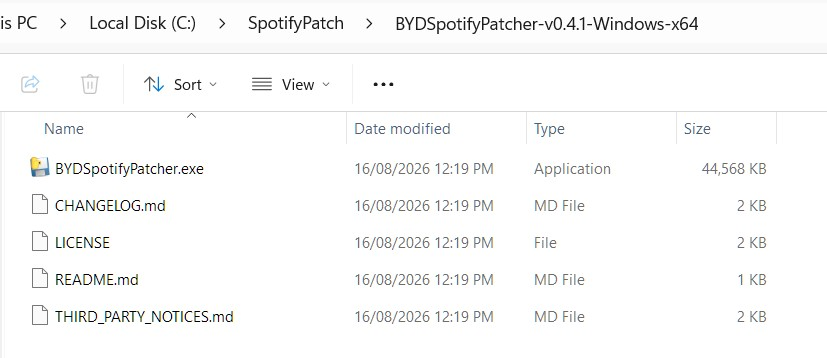
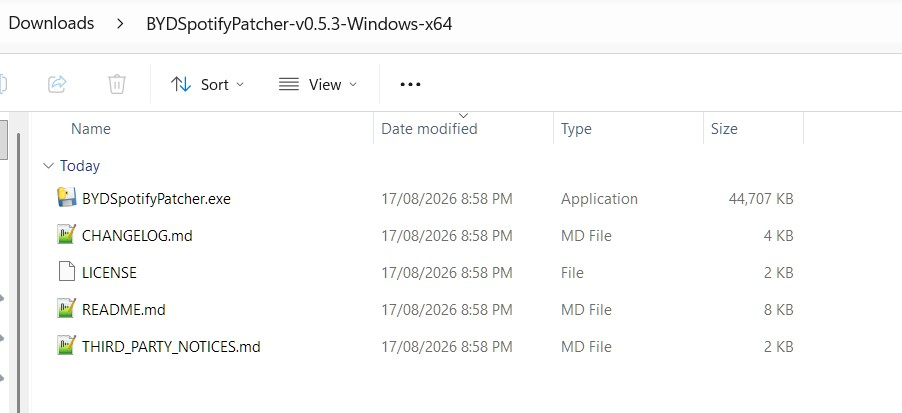
Update README and usage screenshots

diff --git a/README.md b/README.md
@@ -1,184 +1,110 @@
 # BYD Spotify Patcher v0.5.3
 
-Experimental Windows tool for patching a **user-supplied Spotify 8.9.76.538 APK** for BYD Android infotainment.
+Windows tool for patching a **user-supplied Spotify 8.9.76.538 APK** for BYD Android infotainment.
 
-The tool does **not** contain or download Spotify. The user supplies the original `com.spotify.music` APK locally.
+It creates separately installable Spotify instances that can coexist with BYD's factory Spotify app.
 
-## v0.5.3 profile cleanup
+The patcher does **not** contain or download Spotify. The original APK is supplied by the user and patched locally on their PC.
 
-- Removes the experimental third (`com.spotify.musid`) clone after BYD head-unit testing showed that it crashes on launch.
-- Keeps only the validated **Primary** (`com.spotify.musib`) and **Secondary** (`com.spotify.musia`) profiles.
-- BYD testing confirmed the AutoResume/restore behaviour works across the two supported clones: after vehicle restart, the clone that was playing before shutdown resumes.
-- AutoResume/restore implementation itself is unchanged.
+## Screenshots
 
-## v0.5.2 window-layout update
+![BYD Spotify Patcher](docs/patcher-main.png)
 
-- Centers the patcher window on startup.
-- Fits the startup window inside the usable desktop area rather than relying on a fixed 920x840 geometry.
-- Adapts the log-pane height to shorter/scaled displays so the bottom action and signing-key controls remain visible.
-- No patching, branding, signing or AutoResume/restore logic changed from v0.5.1.
+![BYD Spotify Patcher on BYD infotainment](docs/patcher-byd.png)
 
-## v0.5.1 UI update
+## Features
 
-- Adds a live **Logo preview** panel using the launcher artwork from the selected Spotify APK.
-- The preview uses the same `+` mark and hue-rotation code as the final APK branding and updates while the hue slider moves.
-- Clarifies that **App instance** is used to keep separate Spotify profiles/logins available side-by-side.
-- No autoplay/restore or core APK patching logic was changed from v0.5.
+* Install **two separate Spotify instances** alongside BYD's factory Spotify.
+* Use different Spotify accounts in each instance.
+* Automatically restores playback after the BYD infotainment system restarts.
+* **Left (LHD)** and **Right (RHD)** wide-screen layouts.
+* Custom visible app name.
+* Adjustable launcher-icon colour with live preview.
+* Automatic APK patching, signing and verification.
 
-## What v0.5 does
+### App instances
 
-Every output gets the common, car-tested patch set from v0.4:
-
-- clones the Spotify package so it can coexist with BYD's factory `com.spotify.music`;
-- fixes package-scoped permissions/providers and the media-api provider collision;
-- patches Spotify's exact process/package DEX strings and repairs DEX SHA-1/Adler32;
-- preserves `META-INF/services/*` runtime metadata;
-- applies the proven v9 compact/larger-text BYD resource profile;
-- adds a small **+** to the Spotify launcher icon;
-- adds the proven `byd.intent.action.RESTORE_PLAYBACK` MediaBrowser auto-resume helper;
-- aligns, signs and verifies the final APK.
-
-v0.5.3 exposes two supported clone identities:
-
-| Instance | Fixed internal package | Default visible name | Default output |
-|---|---|---|---|
-| Primary | `com.spotify.musib` | `SpotifyPlus` | `*_BYD.apk` |
+| Instance  | Internal package    | Default name    | Output        |
+| --------- | ------------------- | --------------- | ------------- |
+| Primary   | `com.spotify.musib` | `SpotifyPlus`   | `*_BYD.apk`   |
 | Secondary | `com.spotify.musia` | `SpotifyPlus-S` | `*_BYD_S.apk` |
 
-The **internal package is fixed** by the selected instance. Users can only change the visible launcher/app-list name (maximum 24 characters).
+Both instances have been tested successfully on BYD infotainment and can be installed together.
 
-The launcher icon can also be hue-shifted from 0–359 degrees. This changes the colour while retaining the existing Spotify-style icon and the patcher's plus mark, making multiple installed clones easier to distinguish.
-
-The user can also choose one of two static wide-screen layouts:
-
-- **Left (LHD)** — the stable v9 layout; navigation + mini-player stay on the left.
-- **Right (RHD)** — the same v9 text/spacing plus the stable v14 right-side panel transformation. Spotify content remains LTR internally.
-
-There is intentionally no live side-switch button. The static LHS/RHS choice is more reliable on the BYD head unit.
+If one of the patched Spotify apps was playing when the vehicle was shut down, that same instance resumes playback after the infotainment system starts again.
 
 ## Supported Spotify version
 
-v0.5.3 is intentionally strict and supports only:
+Currently supported:
 
-- Spotify **8.9.76.538**
-- versionCode **119017142**
+* Spotify **8.9.76.538**
+* versionCode **119017142**
 
-Later Spotify 9.x builds are not included in this profile. `ANALYSE APK` refuses an unsupported or structurally different APK rather than producing an untested build.
+**Download the tested Spotify 8.9.76.538 universal APK from [APKMirror](https://www.apkmirror.com/apk/spotify-ab/spotify/spotify-music-and-podcasts-8-9-76-538-release/spotify-music-and-podcasts-8-9-76-538-2-android-apk-download/).**
 
-## Normal user flow
+Other Spotify versions are rejected by **ANALYSE APK** rather than being patched with an untested profile.
 
-1. Select the original Spotify 8.9.76.538 APK.
-2. Select **Primary** or **Secondary**.
-3. Optionally change the visible app name and icon hue.
-4. Select **Left (LHD)** or **Right (RHD)**.
-5. Click **ANALYSE APK**.
-6. If the exact profile is supported, click **PATCH + SIGN**.
-7. Install the generated APK on the car.
+## How to use
 
-The selected clone package is separate from the factory `com.spotify.music` installation and from the other supported clone identity.
+1. Download the Windows patcher from the **[Releases](../../releases/latest)** section.
+2. Download the supported Spotify 8.9.76.538 APK.
+3. Start `BYDSpotifyPatcher.exe`. 
+Windows may show a security warning because the patcher is not code-signed with a commercial certificate. This is expected for an independently distributed open-source tool and does not mean Windows has detected malware.
+If SmartScreen appears, click More info and then Run anyway.
 
-## Signing / updates
+![BYD Spotify Patcher](docs/Step1.jpg)
+![BYD Spotify Patcher2](docs/Step2.jpg)
+![BYD Spotify Patcher3](docs/Step3.jpg)
 
-The patcher creates a private per-user signing identity on first use and reuses it for future updates. It is stored in:
+4. Select the original Spotify APK.
+5. Choose **Primary** or **Secondary**.
+6. Optionally change the visible app name and icon colour.
+7. Choose **Left (LHD)** or **Right (RHD)**.
+8. Click **ANALYSE APK**.
+![BYD Spotify Patcher4](docs/Step4.jpg)
 
-```text
-%LOCALAPPDATA%\BYDSpotifyPatcher
-```
+9. If the APK is supported, click **PATCH + SIGN**.
 
-Use **Export backup** to keep a copy of the signing key. If a later patched APK is signed with a different key, Android will not install it as an update over the existing clone with the same internal package.
+![BYD Spotify Patcher5](docs/Step5.jpg)
 
-Early testers who already used a manual `spotifyplus.jks` can use **Import existing JKS/P12…** once, preserving update compatibility.
+10. Install the generated APK on the BYD infotainment system.
 
-## Build a single self-contained Windows EXE
+![BYD Spotify Patcher6](docs/Step6.jpg)
+![BYD Spotify Patcher7](docs/Step7.jpg)
 
-On the build PC, install:
+The patched apps can coexist with each other and with BYD's original `com.spotify.music` installation.
 
-- Python 3
-- Android Studio / Android SDK Build Tools
-- A full JDK containing `java`, `jdeps`, `jlink` and the `jmods` directory (Temurin JDK 21 is recommended)
+## Wide-screen layout
 
-Then open PowerShell in this source folder and run:
+Choose the layout that suits the vehicle:
 
-```powershell
-Set-ExecutionPolicy -Scope Process Bypass
-.\build_portable_windows.ps1
-```
+* **Left (LHD)** — navigation and mini-player remain on the left.
+* **Right (RHD)** — navigation and mini-player are moved to the right while Spotify content remains left-to-right.
 
-The script locates `apksigner.jar`, creates a minimal Java runtime with `jlink`, and packages everything with PyInstaller into:
+The layout is selected when creating the APK.
 
-```text
-dist\BYDSpotifyPatcher.exe
-```
+## Launcher icon
 
-That EXE is self-contained for end users. They do not need Android Studio, the Android SDK, Java, apksigner, zipalign or PowerShell.
+The patched Spotify icon includes a small **+** mark.
 
-### If Android SDK is not auto-detected
+Its colour can be adjusted from **0–359°** to make Primary and Secondary easier to distinguish. The patcher shows a live preview before creating the APK.
 
-Set the SDK path for the current PowerShell session, for example:
+## Playback restore
 
-```powershell
-$env:ANDROID_SDK_ROOT = "$env:LOCALAPPDATA\Android\Sdk"
-```
+Playback restoration has been tested on BYD infotainment.
 
-The portable build script now auto-detects common full-JDK installs, including Eclipse Adoptium. If required, point `JAVA_HOME` at the actual full JDK folder, for example:
+If a patched Spotify instance was playing before the vehicle was shut down, that instance can resume playback after the infotainment system restarts.
 
-```powershell
-$env:JAVA_HOME = "C:\Program Files\Eclipse Adoptium\jdk-21.0.12.8-hotspot"
-```
+## Download
 
-Do not point `JAVA_HOME` at an Android Studio JBR that lacks `jmods\java.base.jmod`; `jlink` cannot build the bundled runtime from it. Then run the portable build script again.
+The current self-contained Windows version is available from:
 
-## Development build
+**[GitHub Releases](../../releases/latest)**
 
-For a smaller developer EXE that uses the build/target PC's installed Android SDK/Java for signing:
-
-```powershell
-.\build_windows.ps1
-```
-
-Output:
-
-```text
-dist\BYDSpotifyPatcher.exe
-```
-
-## Run from source
-
-```powershell
-py -m pip install -r requirements.txt
-py .\byd_spotify_patcher.py --gui
-```
-
-## Command line
-
-Analyse the primary instance:
-
-```powershell
-py .\byd_spotify_patcher.py Spotify.apk --analyse --instance primary
-```
-
-Build a secondary/right-side clone with a custom visible name and hue:
-
-```powershell
-py .\byd_spotify_patcher.py Spotify.apk --instance secondary --app-label "Spotify Car" --icon-hue 110 --panel-side right
-```
-
-If no output path is supplied, the instance controls the output suffix automatically:
-
-```text
-Primary   -> Spotify_BYD.apk
-Secondary -> Spotify_BYD_S.apk
-```
-
-
-Unsigned test build:
-
-```powershell
-py .\byd_spotify_patcher.py Spotify.apk --instance secondary --panel-side right --unsigned
-```
+No Python, Java, Android Studio or Android SDK is required to use the released Windows version.
 
 ## Notes
 
-The tiny embedded helper DEX payloads are patcher-authored code for the LTR container and auto-resume service. They are retargeted to the selected fixed clone package during patching. The auto-resume behaviour itself is unchanged from v0.4.
+This project modifies a user-supplied Spotify APK so cloned instances can coexist with the original BYD installation and work correctly with the BYD wide-screen interface.
 
-No Spotify APK, Spotify DEX, Spotify resources, or other Spotify binaries are bundled with the patcher.
+**No Spotify APK, Spotify DEX, Spotify resources or other Spotify binaries are distributed with this project.**
